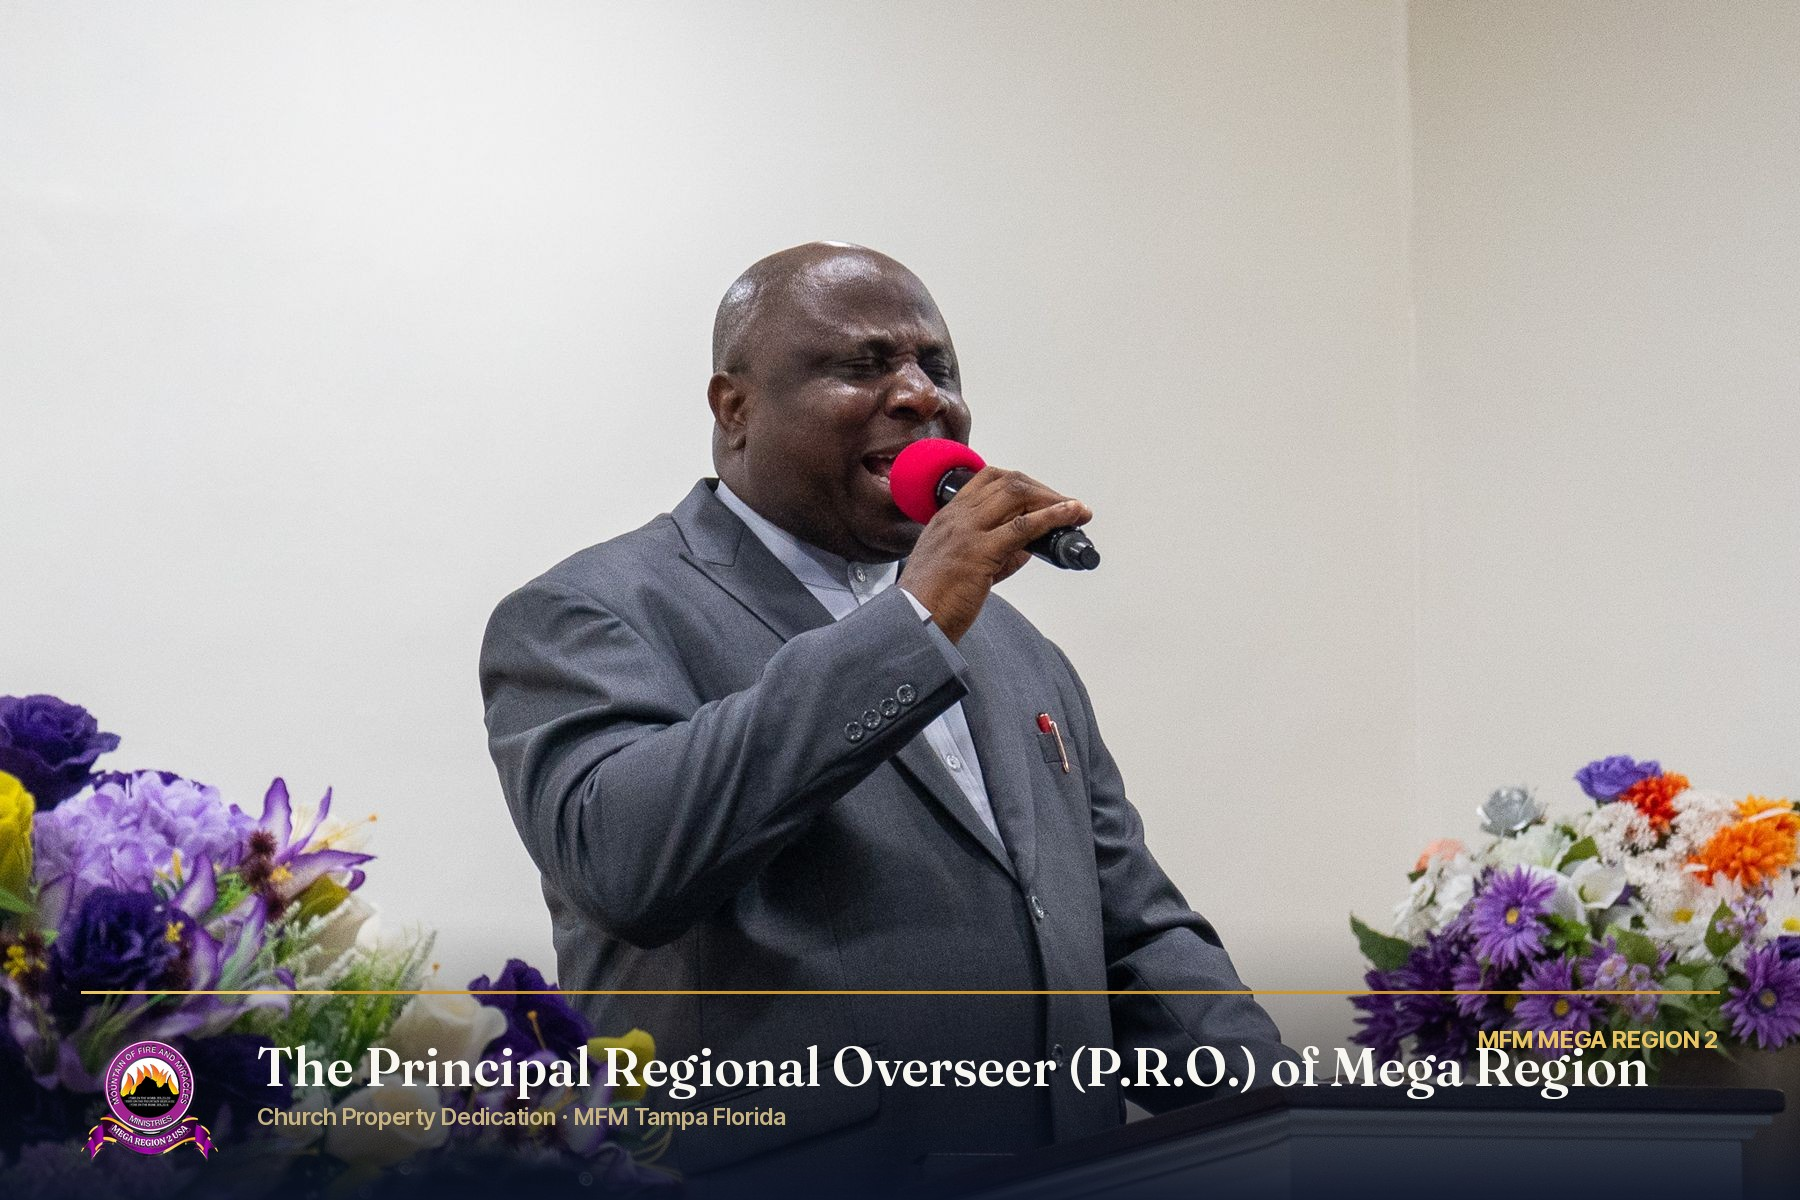
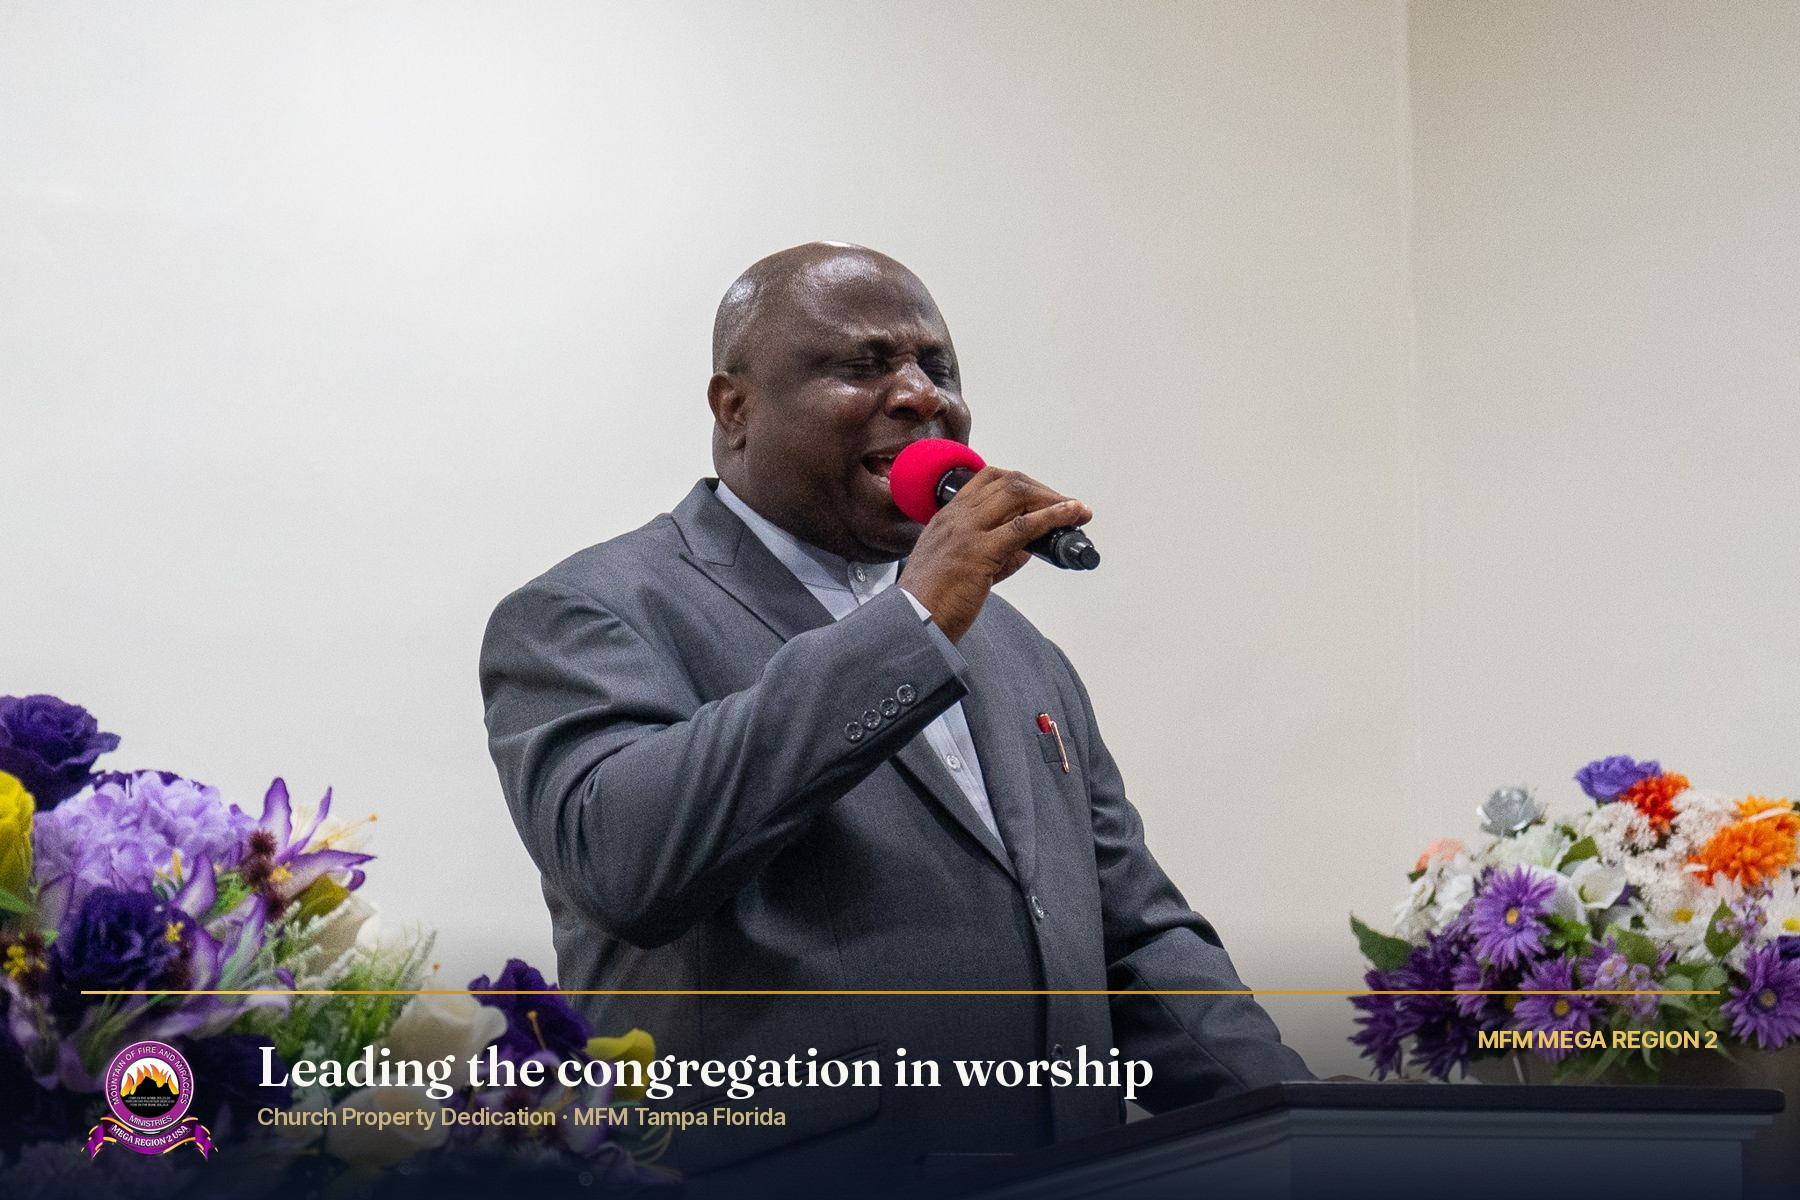
Gallery: correct 4 dedication/NC captions — prayer moments relabeled, minister-in-song made neutral (no PRO/name)
Claude-Session: https://claude.ai/code/session_01FFZMoT3xyv81MSVjXhwfSG

Changed region(s): [[0.1244, 0.8633, 0.9022, 0.925]]

diff --git a/gallery.html b/gallery.html
@@ -152,7 +152,7 @@
 <button class="gl-tile" data-al="nc" data-i="7" style="background-image:url(/img/gallery/north-carolina-2026/at-the-pulpit.jpg)" aria-label="Ministering together at the pulpit"><span>Ministering together at the pulpit</span></button>
 <button class="gl-tile" data-al="nc" data-i="8" style="background-image:url(/img/gallery/north-carolina-2026/the-word-goes-forth.jpg)" aria-label="The Word goes forth"><span>The Word goes forth</span></button>
 <button class="gl-tile" data-al="nc" data-i="9" style="background-image:url(/img/gallery/north-carolina-2026/gospel-of-fire.jpg)" aria-label="Preaching the gospel of fire"><span>Preaching the gospel of fire</span></button>
-<button class="gl-tile" data-al="nc" data-i="10" style="background-image:url(/img/gallery/north-carolina-2026/ministering-the-word.jpg)" aria-label="Ministering the Word"><span>Ministering the Word</span></button>
+<button class="gl-tile" data-al="nc" data-i="10" style="background-image:url(/img/gallery/north-carolina-2026/ministering-the-word.jpg)" aria-label="A moment of prayer"><span>A moment of prayer</span></button>
 <button class="gl-tile" data-al="nc" data-i="11" style="background-image:url(/img/gallery/north-carolina-2026/lost-in-worship.jpg)" aria-label="Lost in worship"><span>Lost in worship</span></button>
 <button class="gl-tile" data-al="nc" data-i="12" style="background-image:url(/img/gallery/north-carolina-2026/with-all-her-heart.jpg)" aria-label="Singing with all her heart"><span>Singing with all her heart</span></button>
 <button class="gl-tile" data-al="nc" data-i="13" style="background-image:url(/img/gallery/north-carolina-2026/choir-lifts-voice.jpg)" aria-label="The choir lifts its voice"><span>The choir lifts its voice</span></button>
@@ -198,9 +198,9 @@
 <button class="gl-tile" data-al="fl" data-i="30" style="background-image:url(/img/gallery/florida-dedication/dedicating-the-house.jpg)" aria-label="Committing the house to the Lord"><span>Committing the house to the Lord</span></button>
 <button class="gl-tile" data-al="fl" data-i="31" style="background-image:url(/img/gallery/florida-dedication/sanctuary-prepared.jpg)" aria-label="The sanctuary, prepared for worship"><span>The sanctuary, prepared for worship</span></button>
 <button class="gl-tile" data-al="fl" data-i="32" style="background-image:url(/img/gallery/florida-dedication/host-pastor-speaks.jpg)" aria-label="The host pastor addresses the church"><span>The host pastor addresses the church</span></button>
-<button class="gl-tile" data-al="fl" data-i="33" style="background-image:url(/img/gallery/florida-dedication/minister-addresses.jpg)" aria-label="Pastor Olumide Oni praying"><span>Pastor Olumide Oni praying</span></button>
-<button class="gl-tile" data-al="fl" data-i="34" style="background-image:url(/img/gallery/florida-dedication/minister-in-song.jpg)" aria-label="The Principal Regional Overseer (P.R.O.) of Mega Region"><span>The Principal Regional Overseer (P.R.O.) of Mega Region</span></button>
-<button class="gl-tile" data-al="fl" data-i="35" style="background-image:url(/img/gallery/florida-dedication/minister-at-pulpit.jpg)" aria-label="A minister brings the Word"><span>A minister brings the Word</span></button>
+<button class="gl-tile" data-al="fl" data-i="33" style="background-image:url(/img/gallery/florida-dedication/minister-addresses.jpg)" aria-label="Standing in prayer"><span>Standing in prayer</span></button>
+<button class="gl-tile" data-al="fl" data-i="34" style="background-image:url(/img/gallery/florida-dedication/minister-in-song.jpg)" aria-label="Leading the congregation in worship"><span>Leading the congregation in worship</span></button>
+<button class="gl-tile" data-al="fl" data-i="35" style="background-image:url(/img/gallery/florida-dedication/minister-at-pulpit.jpg)" aria-label="A minister leads in prayer"><span>A minister leads in prayer</span></button>
 <button class="gl-tile" data-al="fl" data-i="36" style="background-image:url(/img/gallery/florida-dedication/choir-ministers.jpg)" aria-label="The choir ministers in song"><span>The choir ministers in song</span></button>
 <button class="gl-tile" data-al="fl" data-i="37" style="background-image:url(/img/gallery/florida-dedication/choir-worships.jpg)" aria-label="Worship in lavender"><span>Worship in lavender</span></button>
 <button class="gl-tile" data-al="fl" data-i="38" style="background-image:url(/img/gallery/florida-dedication/hand-raised-in-song.jpg)" aria-label="A hand raised in song"><span>A hand raised in song</span></button>
@@ -210,7 +210,7 @@
 <button class="gl-tile" data-al="fl" data-i="42" style="background-image:url(/img/gallery/florida-dedication/bouquet-welcome.jpg)" aria-label="A bouquet of welcome"><span>A bouquet of welcome</span></button>
 <button class="gl-tile" data-al="fl" data-i="43" style="background-image:url(/img/gallery/florida-dedication/all-smiles.jpg)" aria-label="All smiles"><span>All smiles</span></button></div></div></section></main>
 <div class="gl-lb" id="glLb"><span class="gl-ct" id="glCt"></span><button class="gl-x" id="glX" aria-label="Close">&times;</button><button class="gl-arw gl-prev" id="glPrev" aria-label="Previous">&#8249;</button><img id="glImg" src="" alt=""><button class="gl-arw gl-next" id="glNext" aria-label="Next">&#8250;</button></div><script>
-(function(){var DATA={"nc": [{"src": "/img/gallery/north-carolina-2026/the-signboard.jpg", "cap": "The doors of the Burlington Regional Headquarters"}, {"src": "/img/gallery/north-carolina-2026/ministers-rejoice.jpg", "cap": "Ministers rejoice before the new house"}, {"src": "/img/gallery/north-carolina-2026/an-honoured-arrival.jpg", "cap": "An honoured arrival"}, {"src": "/img/gallery/north-carolina-2026/the-procession.jpg", "cap": "The procession arrives"}, {"src": "/img/gallery/north-carolina-2026/leaders-gathered.jpg", "cap": "Leaders gathered for the dedication"}, {"src": "/img/gallery/north-carolina-2026/the-plaque.jpg", "cap": "The dedication plaque \u2014 to the glory of God"}, {"src": "/img/gallery/north-carolina-2026/set-apart.jpg", "cap": "Set apart for the service of Almighty God"}, {"src": "/img/gallery/north-carolina-2026/at-the-pulpit.jpg", "cap": "Ministering together at the pulpit"}, {"src": "/img/gallery/north-carolina-2026/the-word-goes-forth.jpg", "cap": "The Word goes forth"}, {"src": "/img/gallery/north-carolina-2026/gospel-of-fire.jpg", "cap": "Preaching the gospel of fire"}, {"src": "/img/gallery/north-carolina-2026/ministering-the-word.jpg", "cap": "Ministering the Word"}, {"src": "/img/gallery/north-carolina-2026/lost-in-worship.jpg", "cap": "Lost in worship"}, {"src": "/img/gallery/north-carolina-2026/with-all-her-heart.jpg", "cap": "Singing with all her heart"}, {"src": "/img/gallery/north-carolina-2026/choir-lifts-voice.jpg", "cap": "The choir lifts its voice"}, {"src": "/img/gallery/north-carolina-2026/hands-lifted.jpg", "cap": "Hands lifted across the house"}, {"src": "/img/gallery/north-carolina-2026/fire-for-fire.jpg", "cap": "Fire for fire"}, {"src": "/img/gallery/north-carolina-2026/deep-in-prayer.jpg", "cap": "Deep in prayer"}, {"src": "/img/gallery/north-carolina-2026/ministers-pray.jpg", "cap": "Ministers pray as one"}, {"src": "/img/gallery/north-carolina-2026/the-word-open.jpg", "cap": "The Word, open before Him"}, {"src": "/img/gallery/north-carolina-2026/joy-in-the-house.jpg", "cap": "Joy in the house of the Lord"}, {"src": "/img/gallery/north-carolina-2026/gathered-front.jpg", "cap": "Gathered for the dedication"}, {"src": "/img/gallery/north-carolina-2026/receives-the-word.jpg", "cap": "The congregation receives the Word"}], "fl": [{"src": "/img/gallery/florida-crusade/welcome-sign.jpg", "cap": "A warm welcome at the doors of the Yuengling Center"}, {"src": "/img/gallery/florida-crusade/dr-olukoya-preaching.jpg", "cap": "Dr Daniel Olukoya ministers the Word"}, {"src": "/img/gallery/florida-crusade/hands-stretched.jpg", "cap": "Hands stretched out in faith across the arena"}, {"src": "/img/gallery/florida-crusade/banner-dance.jpg", "cap": "Dancing before the Lord with the golden banner"}, {"src": "/img/gallery/florida-crusade/choir-sings.jpg", "cap": "Voices raised together"}, {"src": "/img/gallery/florida-crusade/arms-lifted.jpg", "cap": "Arms lifted high in thanksgiving"}, {"src": "/img/gallery/florida-crusade/worship-leader.jpg", "cap": "Leading the house into worship"}, {"src": "/img/gallery/florida-crusade/ministering-in-song.jpg", "cap": "Ministering in song"}, {"src": "/img/gallery/florida-crusade/choir-procession.jpg", "cap": "The choir moves down to the floor in celebration"}, {"src": "/img/gallery/florida-crusade/band.jpg", "cap": "The band carrying the sound of worship"}, {"src": "/img/gallery/florida-crusade/eyes-closed-worship.jpg", "cap": "Eyes closed, heart open"}, {"src": "/img/gallery/florida-crusade/hands-raised.jpg", "cap": "Hands raised in surrender"}, {"src": "/img/gallery/florida-crusade/altar-prayer.jpg", "cap": "Believers on their knees at the altar"}, {"src": "/img/gallery/florida-crusade/praying-hands-bw.jpg", "cap": "Lost in prayer"}, {"src": "/img/gallery/florida-crusade/intercession-bw.jpg", "cap": "Standing in the gap"}, {"src": "/img/gallery/florida-crusade/the-word.jpg", "cap": "The congregation stands for the Word"}, {"src": "/img/gallery/florida-crusade/victory-dance.jpg", "cap": "A victory dance after a testimony of deliverance"}, {"src": "/img/gallery/florida-crusade/joyful-praise.jpg", "cap": "Joy unspeakable"}, {"src": "/img/gallery/florida-crusade/testimony.jpg", "cap": "A testimony of God's faithfulness"}, {"src": "/img/gallery/florida-crusade/tears-of-release-bw.jpg", "cap": "Tears of release"}, {"src": "/img/gallery/florida-crusade/pastors-gather.jpg", "cap": "Pastors from across the region, gathered as one"}, {"src": "/img/gallery/florida-crusade/pastor-in-white.jpg", "cap": "Ready to serve the crusade"}, {"src": "/img/gallery/florida-dedication/church-building.jpg", "cap": "MFM Tampa Florida Regional Headquarters"}, {"src": "/img/gallery/florida-dedication/general-overseer-arrives.jpg", "cap": "Dr D.K. Olukoya steps through the doors"}, {"src": "/img/gallery/florida-dedication/ribbon-at-the-doors.jpg", "cap": "Red ribbon across the doors, ready to be cut"}, {"src": "/img/gallery/florida-dedication/golden-scissors.jpg", "cap": "The golden scissors for the ribbon cutting"}, {"src": "/img/gallery/florida-dedication/guest-at-the-ribbon.jpg", "cap": "A guest pauses at the ribboned doors"}, {"src": "/img/gallery/florida-dedication/unveiling-the-plaque.jpg", "cap": "Unveiling the dedication plaque"}, {"src": "/img/gallery/florida-dedication/dedication-plaque.jpg", "cap": "The dedication plaque, To the glory of God"}, {"src": "/img/gallery/florida-dedication/prayer-of-dedication.jpg", "cap": "A prayer of dedication"}, {"src": "/img/gallery/florida-dedication/dedicating-the-house.jpg", "cap": "Committing the house to the Lord"}, {"src": "/img/gallery/florida-dedication/sanctuary-prepared.jpg", "cap": "The sanctuary, prepared for worship"}, {"src": "/img/gallery/florida-dedication/host-pastor-speaks.jpg", "cap": "The host pastor addresses the church"}, {"src": "/img/gallery/florida-dedication/minister-addresses.jpg", "cap": "Pastor Olumide Oni praying"}, {"src": "/img/gallery/florida-dedication/minister-in-song.jpg", "cap": "The Principal Regional Overseer (P.R.O.) of Mega Region"}, {"src": "/img/gallery/florida-dedication/minister-at-pulpit.jpg", "cap": "A minister brings the Word"}, {"src": "/img/gallery/florida-dedication/choir-ministers.jpg", "cap": "The choir ministers in song"}, {"src": "/img/gallery/florida-dedication/choir-worships.jpg", "cap": "Worship in lavender"}, {"src": "/img/gallery/florida-dedication/hand-raised-in-song.jpg", "cap": "A hand raised in song"}, {"src": "/img/gallery/florida-dedication/congregation-worships.jpg", "cap": "Standing together in worship"}, {"src": "/img/gallery/florida-dedication/deep-in-prayer.jpg", "cap": "Deep in prayer"}, {"src": "/img/gallery/florida-dedication/generations-together.jpg", "cap": "Generations together in the house of God"}, {"src": "/img/gallery/florida-dedication/bouquet-welcome.jpg", "cap": "A bouquet of welcome"}, {"src": "/img/gallery/florida-dedication/all-smiles.jpg", "cap": "All smiles"}]};var cur=[],idx=0;
+(function(){var DATA={"nc": [{"src": "/img/gallery/north-carolina-2026/the-signboard.jpg", "cap": "The doors of the Burlington Regional Headquarters"}, {"src": "/img/gallery/north-carolina-2026/ministers-rejoice.jpg", "cap": "Ministers rejoice before the new house"}, {"src": "/img/gallery/north-carolina-2026/an-honoured-arrival.jpg", "cap": "An honoured arrival"}, {"src": "/img/gallery/north-carolina-2026/the-procession.jpg", "cap": "The procession arrives"}, {"src": "/img/gallery/north-carolina-2026/leaders-gathered.jpg", "cap": "Leaders gathered for the dedication"}, {"src": "/img/gallery/north-carolina-2026/the-plaque.jpg", "cap": "The dedication plaque \u2014 to the glory of God"}, {"src": "/img/gallery/north-carolina-2026/set-apart.jpg", "cap": "Set apart for the service of Almighty God"}, {"src": "/img/gallery/north-carolina-2026/at-the-pulpit.jpg", "cap": "Ministering together at the pulpit"}, {"src": "/img/gallery/north-carolina-2026/the-word-goes-forth.jpg", "cap": "The Word goes forth"}, {"src": "/img/gallery/north-carolina-2026/gospel-of-fire.jpg", "cap": "Preaching the gospel of fire"}, {"src": "/img/gallery/north-carolina-2026/ministering-the-word.jpg", "cap": "A moment of prayer"}, {"src": "/img/gallery/north-carolina-2026/lost-in-worship.jpg", "cap": "Lost in worship"}, {"src": "/img/gallery/north-carolina-2026/with-all-her-heart.jpg", "cap": "Singing with all her heart"}, {"src": "/img/gallery/north-carolina-2026/choir-lifts-voice.jpg", "cap": "The choir lifts its voice"}, {"src": "/img/gallery/north-carolina-2026/hands-lifted.jpg", "cap": "Hands lifted across the house"}, {"src": "/img/gallery/north-carolina-2026/fire-for-fire.jpg", "cap": "Fire for fire"}, {"src": "/img/gallery/north-carolina-2026/deep-in-prayer.jpg", "cap": "Deep in prayer"}, {"src": "/img/gallery/north-carolina-2026/ministers-pray.jpg", "cap": "Ministers pray as one"}, {"src": "/img/gallery/north-carolina-2026/the-word-open.jpg", "cap": "The Word, open before Him"}, {"src": "/img/gallery/north-carolina-2026/joy-in-the-house.jpg", "cap": "Joy in the house of the Lord"}, {"src": "/img/gallery/north-carolina-2026/gathered-front.jpg", "cap": "Gathered for the dedication"}, {"src": "/img/gallery/north-carolina-2026/receives-the-word.jpg", "cap": "The congregation receives the Word"}], "fl": [{"src": "/img/gallery/florida-crusade/welcome-sign.jpg", "cap": "A warm welcome at the doors of the Yuengling Center"}, {"src": "/img/gallery/florida-crusade/dr-olukoya-preaching.jpg", "cap": "Dr Daniel Olukoya ministers the Word"}, {"src": "/img/gallery/florida-crusade/hands-stretched.jpg", "cap": "Hands stretched out in faith across the arena"}, {"src": "/img/gallery/florida-crusade/banner-dance.jpg", "cap": "Dancing before the Lord with the golden banner"}, {"src": "/img/gallery/florida-crusade/choir-sings.jpg", "cap": "Voices raised together"}, {"src": "/img/gallery/florida-crusade/arms-lifted.jpg", "cap": "Arms lifted high in thanksgiving"}, {"src": "/img/gallery/florida-crusade/worship-leader.jpg", "cap": "Leading the house into worship"}, {"src": "/img/gallery/florida-crusade/ministering-in-song.jpg", "cap": "Ministering in song"}, {"src": "/img/gallery/florida-crusade/choir-procession.jpg", "cap": "The choir moves down to the floor in celebration"}, {"src": "/img/gallery/florida-crusade/band.jpg", "cap": "The band carrying the sound of worship"}, {"src": "/img/gallery/florida-crusade/eyes-closed-worship.jpg", "cap": "Eyes closed, heart open"}, {"src": "/img/gallery/florida-crusade/hands-raised.jpg", "cap": "Hands raised in surrender"}, {"src": "/img/gallery/florida-crusade/altar-prayer.jpg", "cap": "Believers on their knees at the altar"}, {"src": "/img/gallery/florida-crusade/praying-hands-bw.jpg", "cap": "Lost in prayer"}, {"src": "/img/gallery/florida-crusade/intercession-bw.jpg", "cap": "Standing in the gap"}, {"src": "/img/gallery/florida-crusade/the-word.jpg", "cap": "The congregation stands for the Word"}, {"src": "/img/gallery/florida-crusade/victory-dance.jpg", "cap": "A victory dance after a testimony of deliverance"}, {"src": "/img/gallery/florida-crusade/joyful-praise.jpg", "cap": "Joy unspeakable"}, {"src": "/img/gallery/florida-crusade/testimony.jpg", "cap": "A testimony of God's faithfulness"}, {"src": "/img/gallery/florida-crusade/tears-of-release-bw.jpg", "cap": "Tears of release"}, {"src": "/img/gallery/florida-crusade/pastors-gather.jpg", "cap": "Pastors from across the region, gathered as one"}, {"src": "/img/gallery/florida-crusade/pastor-in-white.jpg", "cap": "Ready to serve the crusade"}, {"src": "/img/gallery/florida-dedication/church-building.jpg", "cap": "MFM Tampa Florida Regional Headquarters"}, {"src": "/img/gallery/florida-dedication/general-overseer-arrives.jpg", "cap": "Dr D.K. Olukoya steps through the doors"}, {"src": "/img/gallery/florida-dedication/ribbon-at-the-doors.jpg", "cap": "Red ribbon across the doors, ready to be cut"}, {"src": "/img/gallery/florida-dedication/golden-scissors.jpg", "cap": "The golden scissors for the ribbon cutting"}, {"src": "/img/gallery/florida-dedication/guest-at-the-ribbon.jpg", "cap": "A guest pauses at the ribboned doors"}, {"src": "/img/gallery/florida-dedication/unveiling-the-plaque.jpg", "cap": "Unveiling the dedication plaque"}, {"src": "/img/gallery/florida-dedication/dedication-plaque.jpg", "cap": "The dedication plaque, To the glory of God"}, {"src": "/img/gallery/florida-dedication/prayer-of-dedication.jpg", "cap": "A prayer of dedication"}, {"src": "/img/gallery/florida-dedication/dedicating-the-house.jpg", "cap": "Committing the house to the Lord"}, {"src": "/img/gallery/florida-dedication/sanctuary-prepared.jpg", "cap": "The sanctuary, prepared for worship"}, {"src": "/img/gallery/florida-dedication/host-pastor-speaks.jpg", "cap": "The host pastor addresses the church"}, {"src": "/img/gallery/florida-dedication/minister-addresses.jpg", "cap": "Standing in prayer"}, {"src": "/img/gallery/florida-dedication/minister-in-song.jpg", "cap": "Leading the congregation in worship"}, {"src": "/img/gallery/florida-dedication/minister-at-pulpit.jpg", "cap": "A minister leads in prayer"}, {"src": "/img/gallery/florida-dedication/choir-ministers.jpg", "cap": "The choir ministers in song"}, {"src": "/img/gallery/florida-dedication/choir-worships.jpg", "cap": "Worship in lavender"}, {"src": "/img/gallery/florida-dedication/hand-raised-in-song.jpg", "cap": "A hand raised in song"}, {"src": "/img/gallery/florida-dedication/congregation-worships.jpg", "cap": "Standing together in worship"}, {"src": "/img/gallery/florida-dedication/deep-in-prayer.jpg", "cap": "Deep in prayer"}, {"src": "/img/gallery/florida-dedication/generations-together.jpg", "cap": "Generations together in the house of God"}, {"src": "/img/gallery/florida-dedication/bouquet-welcome.jpg", "cap": "A bouquet of welcome"}, {"src": "/img/gallery/florida-dedication/all-smiles.jpg", "cap": "All smiles"}]};var cur=[],idx=0;
 var lb=document.getElementById('glLb'),im=document.getElementById('glImg'),ct=document.getElementById('glCt');
 function show(i){idx=(i+cur.length)%cur.length;im.src=cur[idx].src;im.alt=cur[idx].cap;ct.textContent=(idx+1)+' / '+cur.length;}
 document.querySelectorAll('.gl-tile').forEach(function(t){t.addEventListener('click',function(){cur=DATA[t.dataset.al];lb.classList.add('open');show(+t.dataset.i);});});
